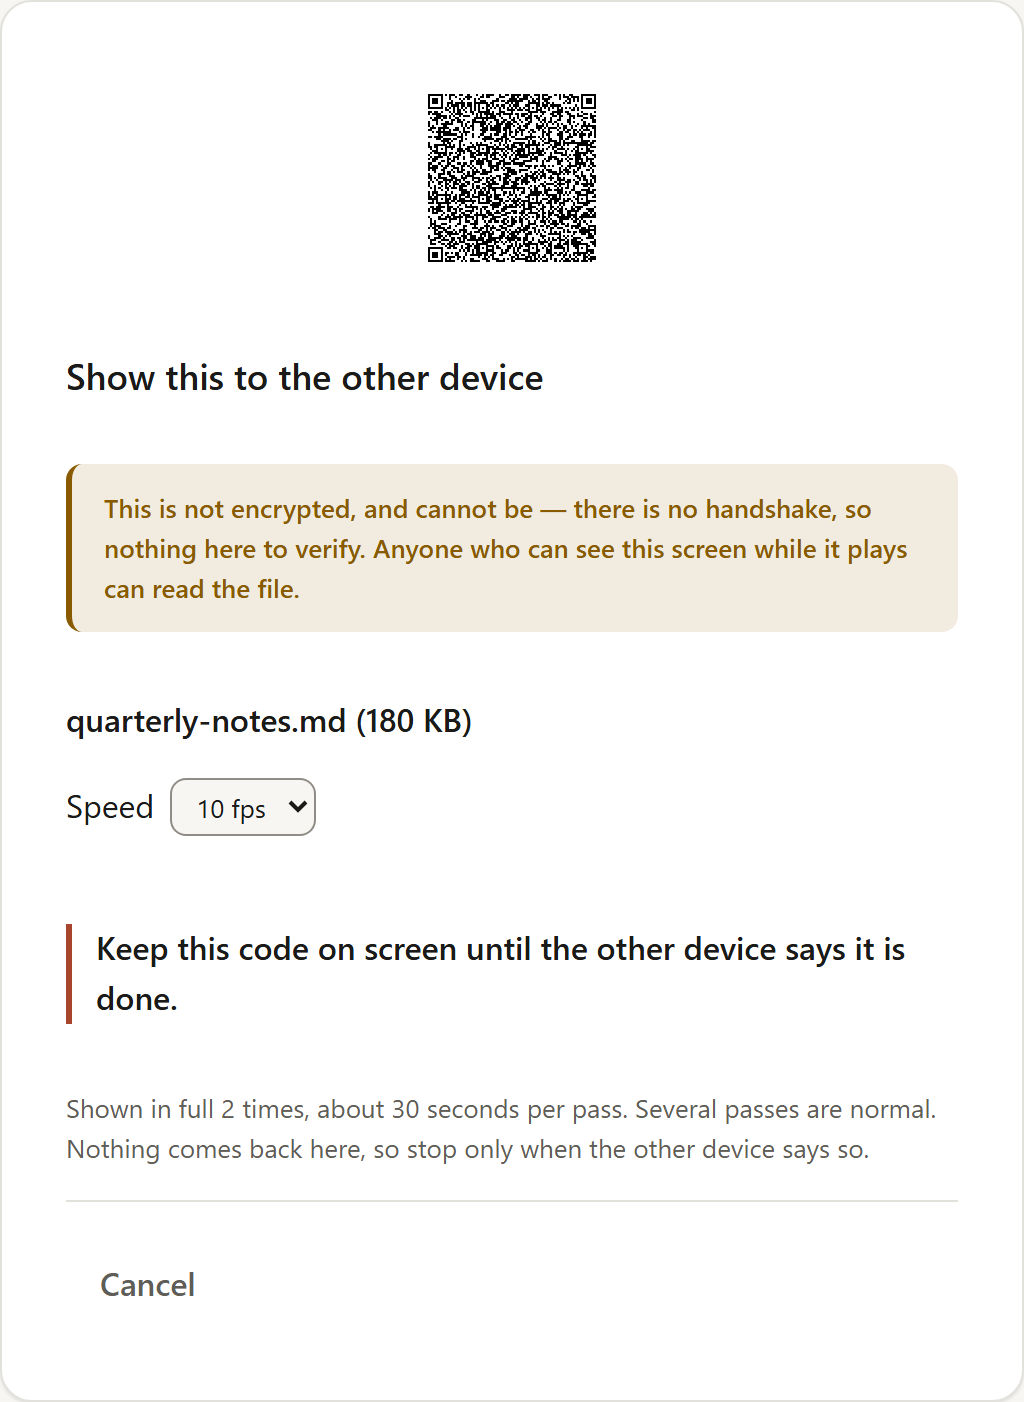
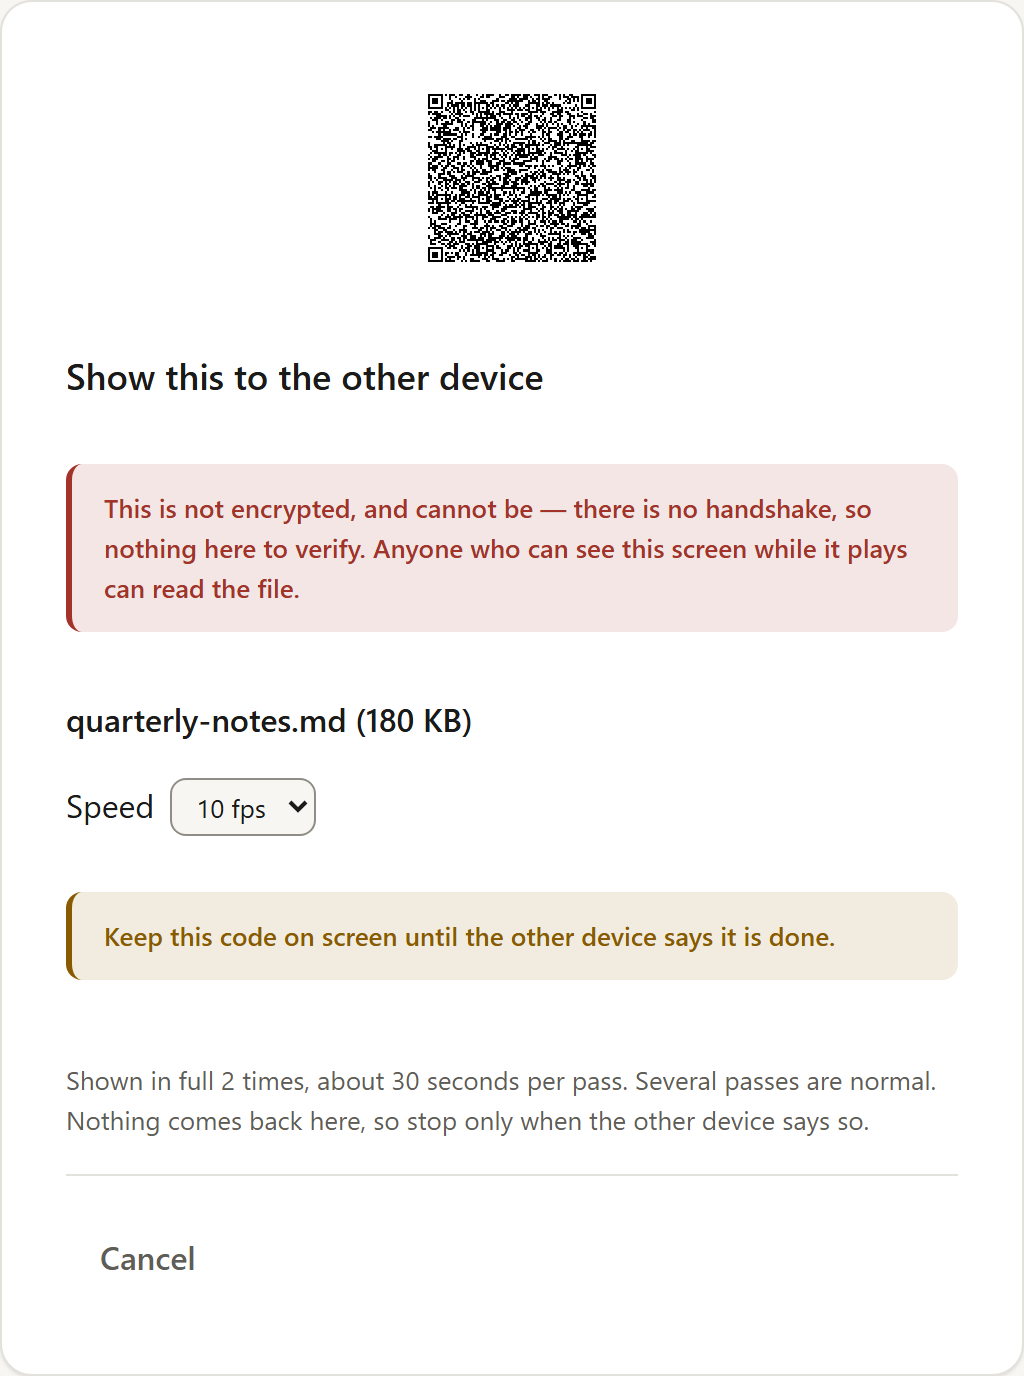
refactor(web): collapse six text treatments into three roles, each with clear purpose
Replace .warn-banner, .beam-instruction, .path-warning, and .error with a
unified .callout class system: .callout.info, .callout.warn, .callout.danger.
This leaves three text-treatment roles: .note (static guidance), .status
(live state), and .callout (boxed emphasis). Retains the left-border design
that avoids full outlines, carrying forward the reasoning from .warn-banner.

diff --git a/src/web/styles.js b/src/web/styles.js
@@ -419,22 +419,42 @@ h2:focus, h2:focus-visible { outline: none; box-shadow: none; }
 }
 .choices.secondary .btn:hover { border-color: var(--line-strong); }
 
-/* ---- unmissable "this is not encrypted" banner, both beam screens ----
- * Reuses --warn/--warn-soft rather than a new colour: those tokens are
- * already the "heed this" pair everywhere else in the component (the
- * too-large outcome), and a second warning colour would just make the
- * palette bigger without making this one easier to notice. A left border
- * rather than a full outline keeps it from reading as an error box (--bad),
- * which this is not -- it is a permanent property of the mode, not a fault. */
-.warn-banner {
-  margin: 0 0 var(--sp-4);
-  padding: var(--sp-3) var(--sp-4);
-  border-left: 3px solid var(--warn);
-  border-radius: var(--r-sm);
-  background: var(--warn-soft);
-  color: var(--warn);
+/* ---- callout boxes: info, warn, danger variants ----
+ * A left border rather than a full outline keeps boxed guidance from reading
+ * as an error the way a bordered box always would. Colour and weight carry
+ * the meaning; the left border is shared across all levels. */
+.callout {
+  border-left: 3px solid;
   font-weight: 600;
   font-size: var(--fs--1);
+}
+
+/* Variants with backgrounds (used for boxed/emphasized content) */
+.callout.info {
+  margin: 0 0 var(--sp-4);
+  padding: var(--sp-3) var(--sp-4);
+  border-radius: var(--r-sm);
+  border-left-color: var(--accent);
+  background: var(--accent-soft);
+  color: var(--accent);
+}
+
+.callout.warn {
+  margin: 0 0 var(--sp-4);
+  padding: var(--sp-3) var(--sp-4);
+  border-radius: var(--r-sm);
+  border-left-color: var(--warn);
+  background: var(--warn-soft);
+  color: var(--warn);
+}
+
+.callout.danger {
+  margin: 0 0 var(--sp-4);
+  padding: var(--sp-3) var(--sp-4);
+  border-radius: var(--r-sm);
+  border-left-color: var(--bad);
+  background: var(--bad-soft);
+  color: var(--bad);
 }
 
 /* ---- drop zone: drag-and-drop / paste entry point for a send ---- */
@@ -509,21 +529,6 @@ h2:focus, h2:focus-visible { outline: none; box-shadow: none; }
   image-rendering: pixelated;
 }
 
-/* The "don't put the phone down yet" line, on both beam screens.
- *
- * Weighted deliberately heavier than .status and .note around it. This is the
- * one instruction whose absence produced a real failure -- an abandoned
- * transfer and an empty file that read as a corrupt download -- and it was a
- * quiet status line when that happened. It is not a warning (--warn belongs to
- * the unencrypted banner, and two competing amber blocks would flatten both),
- * so it leans on weight and the accent rule instead of colour. */
-.beam-instruction {
-  margin: var(--sp-4) 0 var(--sp-2);
-  padding-left: var(--sp-3);
-  border-left: 3px solid var(--accent);
-  font-weight: 600;
-  color: var(--text);
-}
 
 .beam-controls {
   display: flex;
@@ -706,7 +711,7 @@ h2:focus, h2:focus-visible { outline: none; box-shadow: none; }
    Accept button. Styled flat and unclickable on purpose: it is the answer to
    "is this costing me data", not a control, and anything button-shaped beside
    a safety gesture is something people learn to click through. Same reasoning
-   as .warn-banner above -- a permanent property of the connection, not a
+   as .callout above -- a permanent property of the connection, not a
    fault. */
 .path-info { margin: var(--sp-3) 0; }
 
@@ -740,29 +745,10 @@ h2:focus, h2:focus-visible { outline: none; box-shadow: none; }
   white-space: pre;
 }
 
-/* The metered heads-up. Subordinate to the badge -- no background fill, so it
-   reads as a sentence attached to the pill rather than a second banner
-   competing with the gesture underneath it. */
-.path-warning {
-  margin: var(--sp-2) 0 0;
-  color: var(--warn);
-  font-size: var(--fs--1);
-  font-weight: 600;
-}
 
 .status { color: var(--muted); font-size: var(--fs--1); margin: var(--sp-2) 0 0; }
 .note { color: var(--muted); font-size: var(--fs--1); }
 .filename { font-weight: 600; margin: 0; word-break: break-all; }
-
-.error {
-  margin-top: var(--sp-4);
-  padding: var(--sp-3) var(--sp-4);
-  border-radius: var(--r-sm);
-  border: 1px solid var(--bad);
-  background: var(--bad-soft);
-  color: var(--bad);
-  font-size: var(--fs--1);
-}
 
 summary {
   cursor: pointer;

diff --git a/src/web/view.js b/src/web/view.js
@@ -168,7 +168,7 @@ function pathBadge(state) {
   return h('div', { class: 'path-info', 'aria-live': 'polite' }, [
     h('p', { class: `path-badge ${state.path}` }, label),
     h('p', { class: 'note' }, detail),
-    warning ? h('p', { class: 'path-warning' }, warning) : null,
+    warning ? h('p', { class: 'callout warn' }, warning) : null,
     // TEMPORARY, `?debug=path` only. Text content via h(), never innerHTML --
     // this is peer-influenced data (addresses the other device chose to send)
     // and the no-innerHTML rule is what keeps it inert.
@@ -613,7 +613,7 @@ function receive(state, dispatch) {
       // input are the same statement made to assistive tech, which otherwise
       // had no way at all to connect the two.
       state.manualError
-        ? h('p', { id: 'manual-error', class: 'error', role: 'alert' }, state.manualError)
+        ? h('p', { id: 'manual-error', class: 'callout danger', role: 'alert' }, state.manualError)
         : null,
     ]),
 
@@ -901,7 +901,7 @@ function beamSend(state, dispatch) {
     media: h('div', { id: 'beam-stage', class: 'beam-stage', key: 'beam-stage', adopt: state.beamNode }),
     body: [
     h('h2', { tabindex: '-1' }, 'Show this to the other device'),
-    h('p', { class: 'warn-banner', role: 'note' }, BEAM_WARNING),
+    h('p', { class: 'callout danger', role: 'note' }, BEAM_WARNING),
     state.file ? h('p', { class: 'filename' }, `${state.file.name} (${bytes(state.file.size)})`) : null,
 
     // `adopt` and `key` are both load-bearing, not stylistic. The canvas is a
@@ -933,7 +933,7 @@ function beamSend(state, dispatch) {
     // means the bytes now move on their own. Here it means the opposite: the
     // work has not started yet. That misreading is the default, so it is worth
     // spending the most prominent element on the page to prevent.
-    h('p', { class: 'beam-instruction' }, 'Keep this code on screen until the other device says it is done.'),
+    h('p', { class: 'callout warn' }, 'Keep this code on screen until the other device says it is done.'),
 
     // Loops, not percent: a sender has no back channel at all (see
     // core/beam.js's header), so "how far along is the other device" is a
@@ -969,7 +969,7 @@ function beamReceive(state, dispatch) {
       : null,
     body: [
       h('h2', { tabindex: '-1' }, 'Point the camera at the other screen'),
-      h('p', { class: 'warn-banner', role: 'note' }, BEAM_WARNING),
+      h('p', { class: 'callout danger', role: 'note' }, BEAM_WARNING),
 
       // Unlike receive()'s scanner, there is no manual-entry fallback to fall
       // back to here -- a beam code is thousands of frames, not one string a
@@ -986,7 +986,7 @@ function beamReceive(state, dispatch) {
       // the sending laptop down, so the instruction is promoted to the loudest
       // thing on the screen rather than left as the quiet status line it was.
       !state.offer && state.beam && state.beam.blocks > 0
-        ? h('p', { class: 'beam-instruction' }, BEAM_KEEP_GOING)
+        ? h('p', { class: 'callout warn' }, BEAM_KEEP_GOING)
         : null,
       !state.offer
         ? h('p', { class: 'status', 'aria-live': 'polite' }, state.status)
